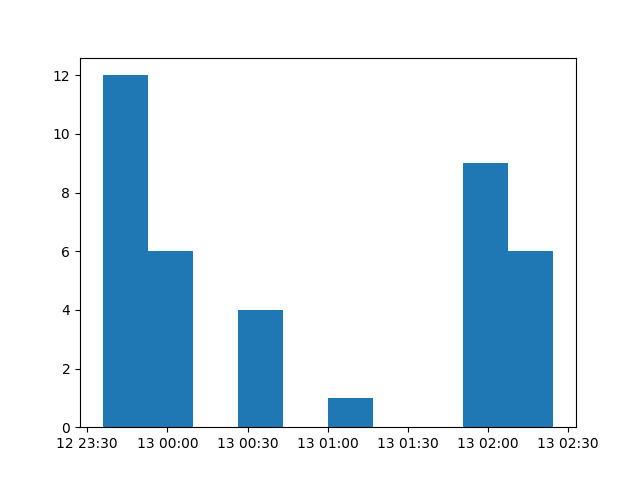
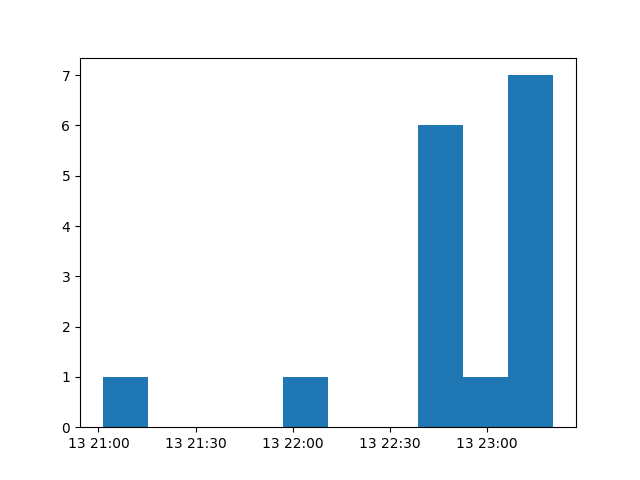
AutoUpdater, cambio de tamaños y actualizacion de grafica

diff --git a/PantallaContador.py b/PantallaContador.py
@@ -1,4 +1,5 @@
 import kivy
+kivy.require('2.0.0')
 from kivy.app import App
 from kivy.uix.widget import Widget
 from kivy.uix.button import Button
@@ -7,30 +8,60 @@ from kivy.uix.image import Image
 from ConectorDB import BaseDeDatos
 from datetime import datetime, timedelta
 import matplotlib.pyplot as plt
+from kivy.clock import Clock
+from kivy.uix.image import AsyncImage
+# from kivy.config import Config
+# Config.set('graphics', 'width', '2000')
+# Config.set('graphics', 'height', '2000')
 
 class Pantalla(Widget):
     def __init__(self):
         super().__init__()
+        # self.size = (1000, 1000)
         self.DB = BaseDeDatos()
         self.TextoFijo = Label(text='Contador')
         self.TextoCont = Label(text=str(self.calcularValor()))
         self.add_widget(self.TextoFijo)
         self.TextoFijo.center_x = self.center_x + 250
-        self.TextoFijo.center_y = self.center_y + 300
+        self.TextoFijo.center_y = self.center_y + 300 + 100
+        self.TextoFijo.font_size = 50
         self.add_widget(self.TextoCont)
         self.TextoCont.center_x = self.center_x + 250
-        self.TextoCont.center_y = self.center_y + 150
-        self.BotonCont = Button(text='Actualizar \n contador', on_press=self.on_press)
-        self.add_widget(self.BotonCont)
-        self.BotonCont.center_x = self.center_x + 250
-        self.BotonCont.center_y = self.center_y + 50
-        self.BotonGrafica = Button(text='Graficar', on_press=self.on_press2)
-        self.add_widget(self.BotonGrafica)
+        self.TextoCont.center_y = self.center_y + 200 + 125
+        self.TextoCont.font_size = 50
+        # self.BotonCont = Button(text='Actualizar \n contador', on_press=self.on_press)
+        # self.add_widget(self.BotonCont)
+        # self.BotonCont.center_x = self.center_x + 250
+        # self.BotonCont.center_y = self.center_y + 50
+        # self.BotonGrafica = Button(text='Graficar', on_press=self.on_press2)
+        # self.add_widget(self.BotonGrafica)
+        self.grafica()
+        self.Histograma.center_x = self.center_x + 250
+        self.Histograma.center_y = self.center_y + 150
+        self.add_widget(self.Histograma)
+        event = Clock.schedule_interval(self.on_update, .1)
+
     def on_press2(self, *args):
         self.grafica()
         self.add_widget(self.Histograma)
+        self.Histograma.allow_stretch = True
         self.Histograma.center_x = self.center_x + 250
         self.Histograma.center_y = self.center_y + 50
+    
+    def on_update(self, *args):
+        self.on_press()
+        self.ActualizarGrafica()
+        self.Histograma.reload()
+
+    def ActualizarGrafica(self):
+        registro = self.DB.selectRegistroUsuarioFecha(1, datetime.now() - timedelta(days=1), datetime.now())
+        newTable = []
+        for i in registro:
+            newTable.append(i[2])
+        plt.hist(newTable, bins=10)
+        plt.savefig('histograma.png')
+        plt.close()
+
     def grafica(self):
         registro = self.DB.selectRegistroUsuarioFecha(1, datetime.now() - timedelta(days=1), datetime.now())
         newTable = []
@@ -39,7 +70,10 @@ class Pantalla(Widget):
         plt.hist(newTable, bins=10)
         plt.savefig('histograma.png')
         plt.close()
-        self.Histograma = Image(source='histograma.png')
+        self.Histograma = Image(source='histograma.png',nocache=True)
+        self.Histograma.allow_stretch = True
+        self.Histograma.keep_ratio = True
+        self.Histograma.size = (self.Histograma.get_norm_image_size()[0] + 250, self.Histograma.get_norm_image_size()[1] + 250)
 
 
     def calcularValor(self):
